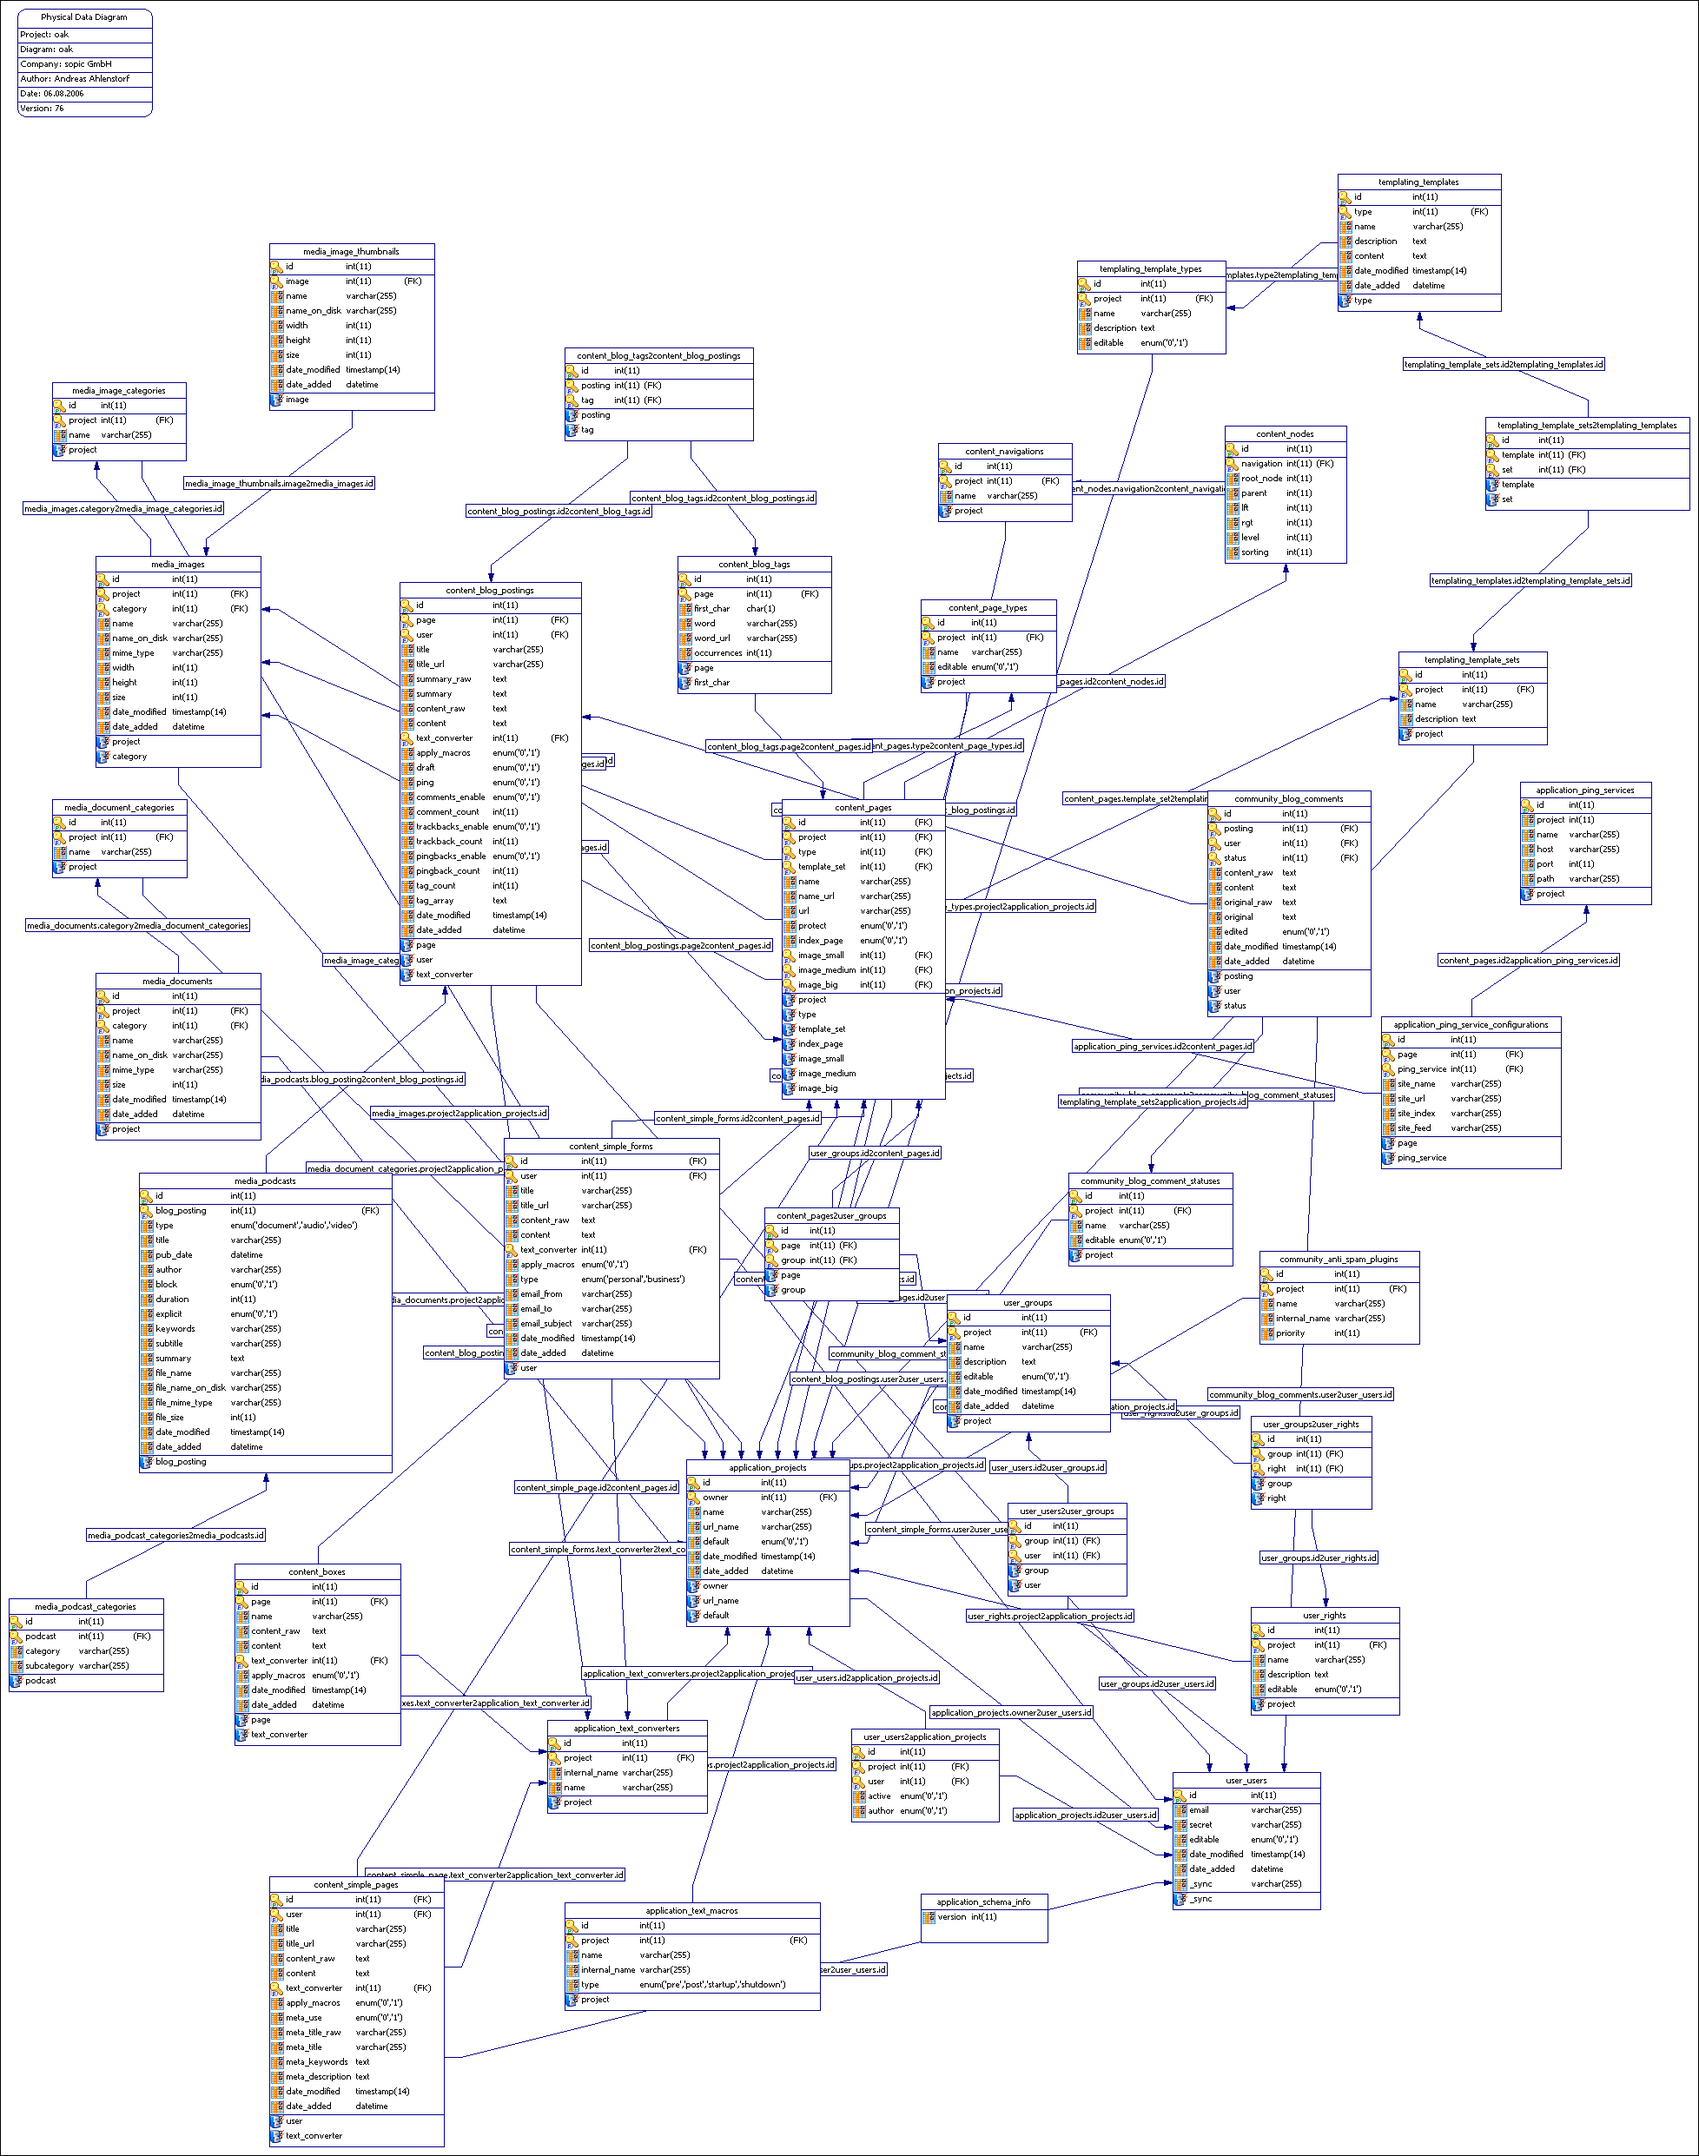
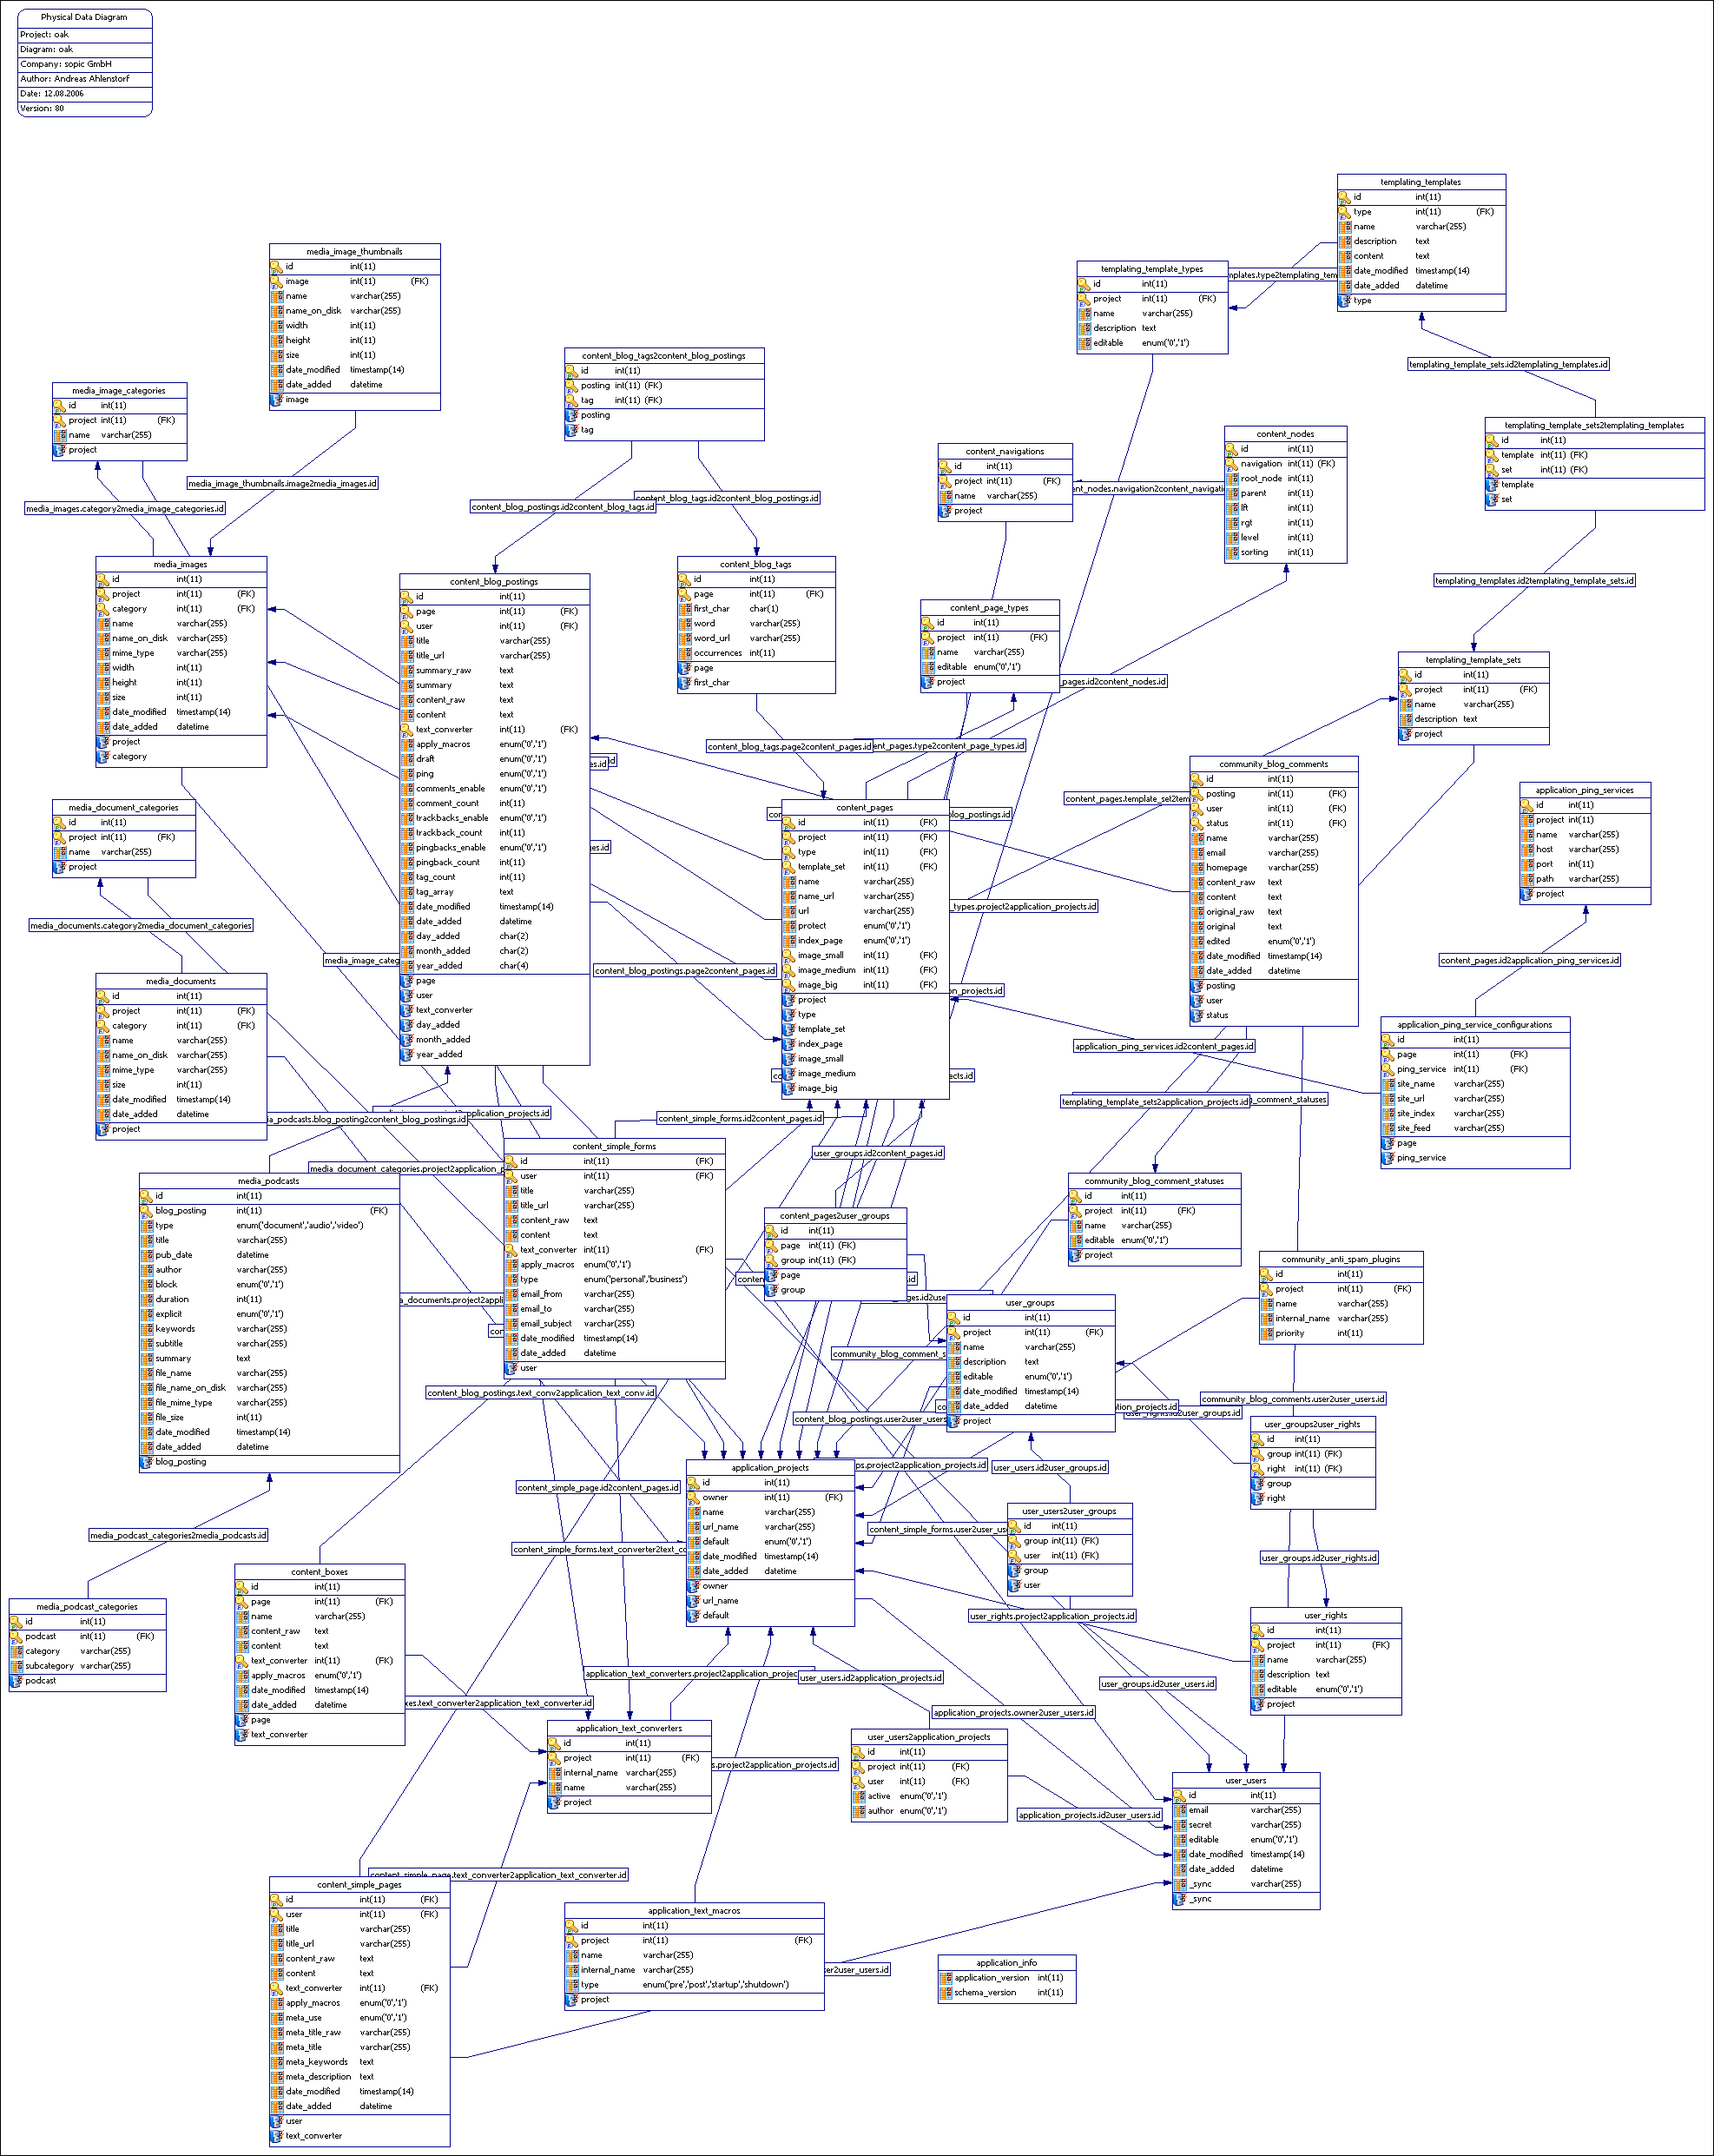
Methods for archive generation added (and corresponding database fields)

diff --git a/oak/core/content_classes/blogposting.class.php b/oak/core/content_classes/blogposting.class.php
@@ -240,6 +240,9 @@ public function selectBlogPosting ($id)
 			`content_blog_postings`.`tag_array` AS `tag_array`,
 			`content_blog_postings`.`date_modified` AS `date_modified`,
 			`content_blog_postings`.`date_added` AS `date_added`,
+			`content_blog_postings`.`day_added` AS `day_added`,
+			`content_blog_postings`.`month_added` AS `month_added`,
+			`content_blog_postings`.`year_added` AS `year_added`,
 			`content_nodes`.`id` AS `node_id`,
 			`content_nodes`.`navigation` AS `node_navigation`,
 			`content_nodes`.`root_node` AS `node_root_node`,
@@ -399,6 +402,9 @@ public function selectBlogPostings ($params = array())
 			`content_blog_postings`.`tag_array` AS `tag_array`,
 			`content_blog_postings`.`date_modified` AS `date_modified`,
 			`content_blog_postings`.`date_added` AS `date_added`,
+			`content_blog_postings`.`day_added` AS `day_added`,
+			`content_blog_postings`.`month_added` AS `month_added`,
+			`content_blog_postings`.`year_added` AS `year_added`,
 			`content_nodes`.`id` AS `node_id`,
 			`content_nodes`.`navigation` AS `node_navigation`,
 			`content_nodes`.`root_node` AS `node_root_node`,
@@ -575,6 +581,307 @@ public function countBlogPostings ($params = array())
 	}
 	
 	return $this->base->db->select($sql, 'field', $bind_params);
+}
+
+/**
+ * Selects years with blog postings. Takes field=>key array with select
+ * params as first argument. Returns array with years.
+ * 
+ * <b>List of supported params:</b>
+ * 
+ * <ul>
+ * <li>page, int, optional: Return only blog postings assigned to this page</li>
+ * <li>order_macro, string, optional: Sorting instructions</li>
+ * <li>start, int, optional: row offset</li>
+ * <li>limit, int, optional: amount of rows to return</li>
+ * </ul>
+ * 
+ * @throws Content_BlogPostingException
+ * @param array
+ * @return array
+ */
+public function selectDifferentYears ($params)
+{
+	// define some vars
+	$page = null;
+	$order_macro = null;
+	$start = null;
+	$limit = null;
+	$bind_params = array();
+	
+	// input check
+	if (!is_array($params)) {
+		throw new Content_BlogPostingException('Input for parameter params is not an array');	
+	}
+	
+	// import params
+	foreach ($params as $_key => $_value) {
+		switch ((string)$_key) {
+			case 'page':
+			case 'start':
+			case 'limit':
+					$$_key = (int)$_value;
+				break;
+			case 'order_macro':
+					$$_key = (string)$_value;
+				break;
+			default:
+				throw new Content_BlogPostingException("Unknown parameter $_key");
+		}
+	}
+	
+	// define order macros
+	$macros = array(
+		'DATE_ADDED' => '`date_added`',
+	);
+	
+	// load helper class
+	$HELPER = load('utility:helper');
+	
+	// prepare query
+	$sql = "
+		SELECT
+			`date_added` AS `timestamp`,
+			`year_added` AS `year`
+		FROM
+			".OAK_DB_CONTENT_BLOG_POSTINGS." AS `content_blog_postings`
+		WHERE
+			1
+	";
+	
+	if (!empty($page)) {
+		$sql .= sprintf(" AND `page` = :page ");
+		$bind_params['page'] = $page;
+	}
+		
+	// aggregate result set
+	$sql .=	" GROUP BY `year` ";
+	
+	// add sorting
+	if (!empty($order_macro)) {
+		$HELPER = load('utility:helper');
+		$sql .= " ORDER BY ".$HELPER->_sqlForOrderMacro($order_macro, $macros);
+	}
+	
+	// add limits etc.
+	if (empty($start) && is_numeric($limit)) {
+		$sql .= sprintf(" LIMIT %u ", $limit);
+	}
+	if (!empty($start) && is_numeric($start) && !empty($limit) && is_numeric($limit)) {
+		$sql .= sprintf(" LIMIT %u, %u ", $start, $limit);
+	}
+
+	// execute query and return result
+	return $this->base->db->select($sql, 'multi', $bind_params);
+}
+
+/**
+ * Selects months with blog postings. Takes field=>key array with select
+ * params as first argument. Returns array with months and years.
+ * 
+ * <b>List of supported params:</b>
+ * 
+ * <ul>
+ * <li>page, int, optional: Return only blog postings assigned to this page</li>
+ * <li>year, int, optional: Return only blog postings added in that year</li>
+ * <li>order_macro, string, optional: Sorting instructions</li>
+ * <li>start, int, optional: row offset</li>
+ * <li>limit, int, optional: amount of rows to return</li>
+ * </ul>
+ * 
+ * @throws Content_BlogPostingException
+ * @param array Select params
+ * @return array
+ */
+public function selectDifferentMonths ($params)
+{
+	// define some vars
+	$page = null;
+	$year = null;
+	$order_macro = null;
+	$start = null;
+	$limit = null;
+	$bind_params = array();
+	
+	// input check
+	if (!is_array($params)) {
+		throw new blogpostingException('Input for parameter params is not an array');	
+	}
+	
+	// import params
+	foreach ($params as $_key => $_value) {
+		switch ($_key) {
+			case 'page':	
+			case 'year':	
+			case 'start':	
+			case 'limit':		
+					$$_key = (int)$_value;
+				break;
+			case 'order_macro':
+					$$_key = (string)$_value;
+				break;
+			default:
+				throw new blogpostingException("Unknown parameter $_key");
+		}
+	}
+	
+	// define order macros
+	$macros = array(
+		'DATE_ADDED' => '`date_added`',
+	);
+	
+	// load helper class
+	$HELPER = load('utility:helper');
+	
+	// prepare query
+	$sql = "
+		SELECT
+			`date_added` AS `timestamp`,
+			`year_added` AS `year`,
+			`month_added` AS `month`
+		FROM
+			".OAK_DB_CONTENT_BLOG_POSTINGS." AS `content_blog_postings`
+		WHERE
+			1
+	";
+	
+	// add where clauses
+	if (!empty($page)) {
+		$sql .= " AND `page` = :page ";
+		$bind_params['page'] = $page;
+	}
+	if (!empty($year)) {
+		$sql .= sprintf(" AND `year_added` = :year ");
+		$bind_params['year'] = $year;
+	}
+	
+	// aggregate result set
+	$sql .=	" GROUP BY `month_added`, `year_added` ";
+	
+	// add sorting
+	if (!empty($order_macro)) {
+		$HELPER = load('utility:helper');
+		$sql .= " ORDER BY ".$HELPER->_sqlForOrderMacro($order_macro, $macros);
+	}
+	
+	// add limits etc.
+	if (empty($start) && is_numeric($limit)) {
+		$sql .= sprintf(" LIMIT %u ", $limit);
+	}
+	if (!empty($start) && is_numeric($start) && !empty($limit) && is_numeric($limit)) {
+		$sql .= sprintf(" LIMIT %u, %u ", $start, $limit);
+	}
+	
+	// execute query and return result
+	return $this->base->db->select($sql, 'multi', $bind_params);
+}
+
+/**
+ * Selects days with blog postings. Takes field=>key array with select params
+ * as first argument. Returns array with days, months and years.
+ * 
+ * <b>List of supported params:</b>
+ * 
+ * <ul>
+ * <li>page, int, optional: Return only blog postings assigned to this page</li>
+ * <li>year, int, optional: Return only blog postings added in that year</li>
+ * <li>month, int, optional: Return only blog postings added in that month</li>
+ * <li>start, int, optional: row offset</li>
+ * <li>limit, int, optional: amount of rows to return</li>
+ * </ul>
+ * 
+ * @throws Content_BlogPostingException
+ * @param array Select params
+ * @return array
+ */
+public function selectDifferentDays ($params)
+{
+	// define some vars
+	$page = null;
+	$year = null;
+	$month = null;
+	$order_macro = null;
+	$start = null;
+	$limit = null;
+	$bind_params = array();
+	
+	// input check
+	if (!is_array($params)) {
+		throw new blogpostingException('Input for parameter params is not an array');	
+	}
+	
+	// import params
+	foreach ($params as $_key => $_value) {
+		switch ($_key) {
+			case 'page':	
+			case 'year':	
+			case 'month':	
+			case 'start':	
+			case 'limit':		
+					$$_key = (int)$_value;
+				break;
+			case 'order_macro':
+					$$_key = (string)$_value;
+				break;
+			default:
+				throw new blogpostingException("Unknown parameter $_key");
+		}
+	}
+	
+	// define order macros
+	$macros = array(
+		'DATE_ADDED' => '`date_added`',
+	);
+	
+	// load helper class
+	$HELPER = load('utility:helper');
+	
+	// prepare query
+	$sql = "
+		SELECT
+			date_added AS timestamp,
+			date_added_year AS year,
+			date_added_month AS month,
+			date_added_day AS day
+		FROM
+			blog_postings
+		WHERE
+			1
+	";
+	
+	// add where clauses
+	if (!empty($page)) {
+		$sql .= " AND `page` = :page ";
+		$bind_params['page'] = $page;
+	}
+	if (!empty($year)) {
+		$sql .= sprintf(" AND `year_added` = :year ");
+		$bind_params['year'] = $year;
+	}
+	if (!empty($month)) {
+		$sql .= sprintf(" AND `month_added` = :month ");
+		$bind_params['month'] = $month;
+	}
+	
+	// aggregate result set
+	$sql .=	" GROUP BY `day_added`, `month_added`, `year_added` ";
+	
+	// add sorting
+	if (!empty($order_macro)) {
+		$HELPER = load('utility:helper');
+		$sql .= " ORDER BY ".$HELPER->_sqlForOrderMacro($order_macro, $macros);
+	}
+		
+	// add limits etc.
+	if (empty($start) && is_numeric($limit)) {
+		$sql .= sprintf(" LIMIT %u ", $limit);
+	}
+	if (!empty($start) && is_numeric($start) && !empty($limit) && is_numeric($limit)) {
+		$sql .= sprintf(" LIMIT %u, %u ", $start, $limit);
+	}
+	
+	// execute query and return result
+	return $this->base->db->select($sql, 'multi', $bind_params);
 }
 
 /**
